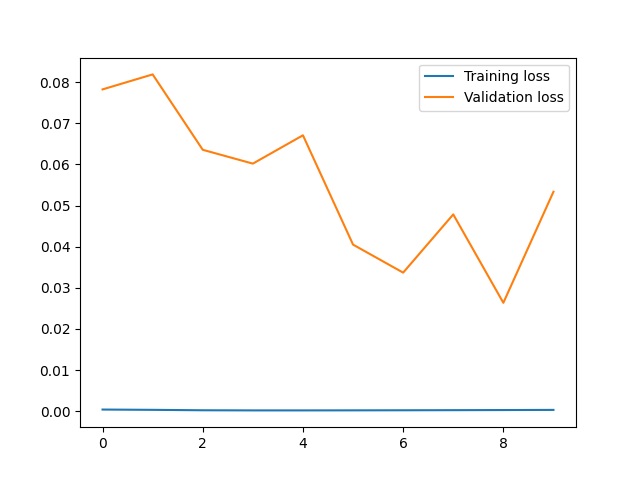
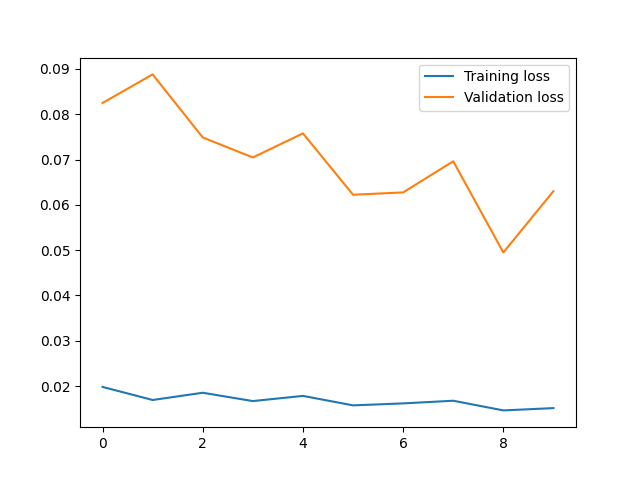
train mod

diff --git a/fem/generate_pore2d_comb_2.py b/fem/generate_pore2d_comb_2.py
@@ -156,7 +156,7 @@ def generate_phi_block(
     base_center = (0.0, 0.5)
 
     # parametri denti blu
-    n_teeth = 6
+    n_teeth = 8
     y_center = 0.5
     height_min = L_base_y + 0.8
     height_max = 2.0 - 2*epsilon
@@ -197,15 +197,12 @@ def main():
     path = Path("pore2D.dat")
     before, phi_block, after = get_phi_block(path)
 
-    epsilon = 0.01953125
-    width_max = 0.1
-
     out_dir = Path("/home/fiorello/mesoEvo/install_seq/init")
 
     new_phi_block = generate_phi_block(
-    epsilon=0.01953125,
-    width_max=0.05,
-    k_spacing=3,
+    epsilon=0.009765625,
+    width_max=0.04,
+    k_spacing=4,
     )
     new_text = before + new_phi_block + after
 
